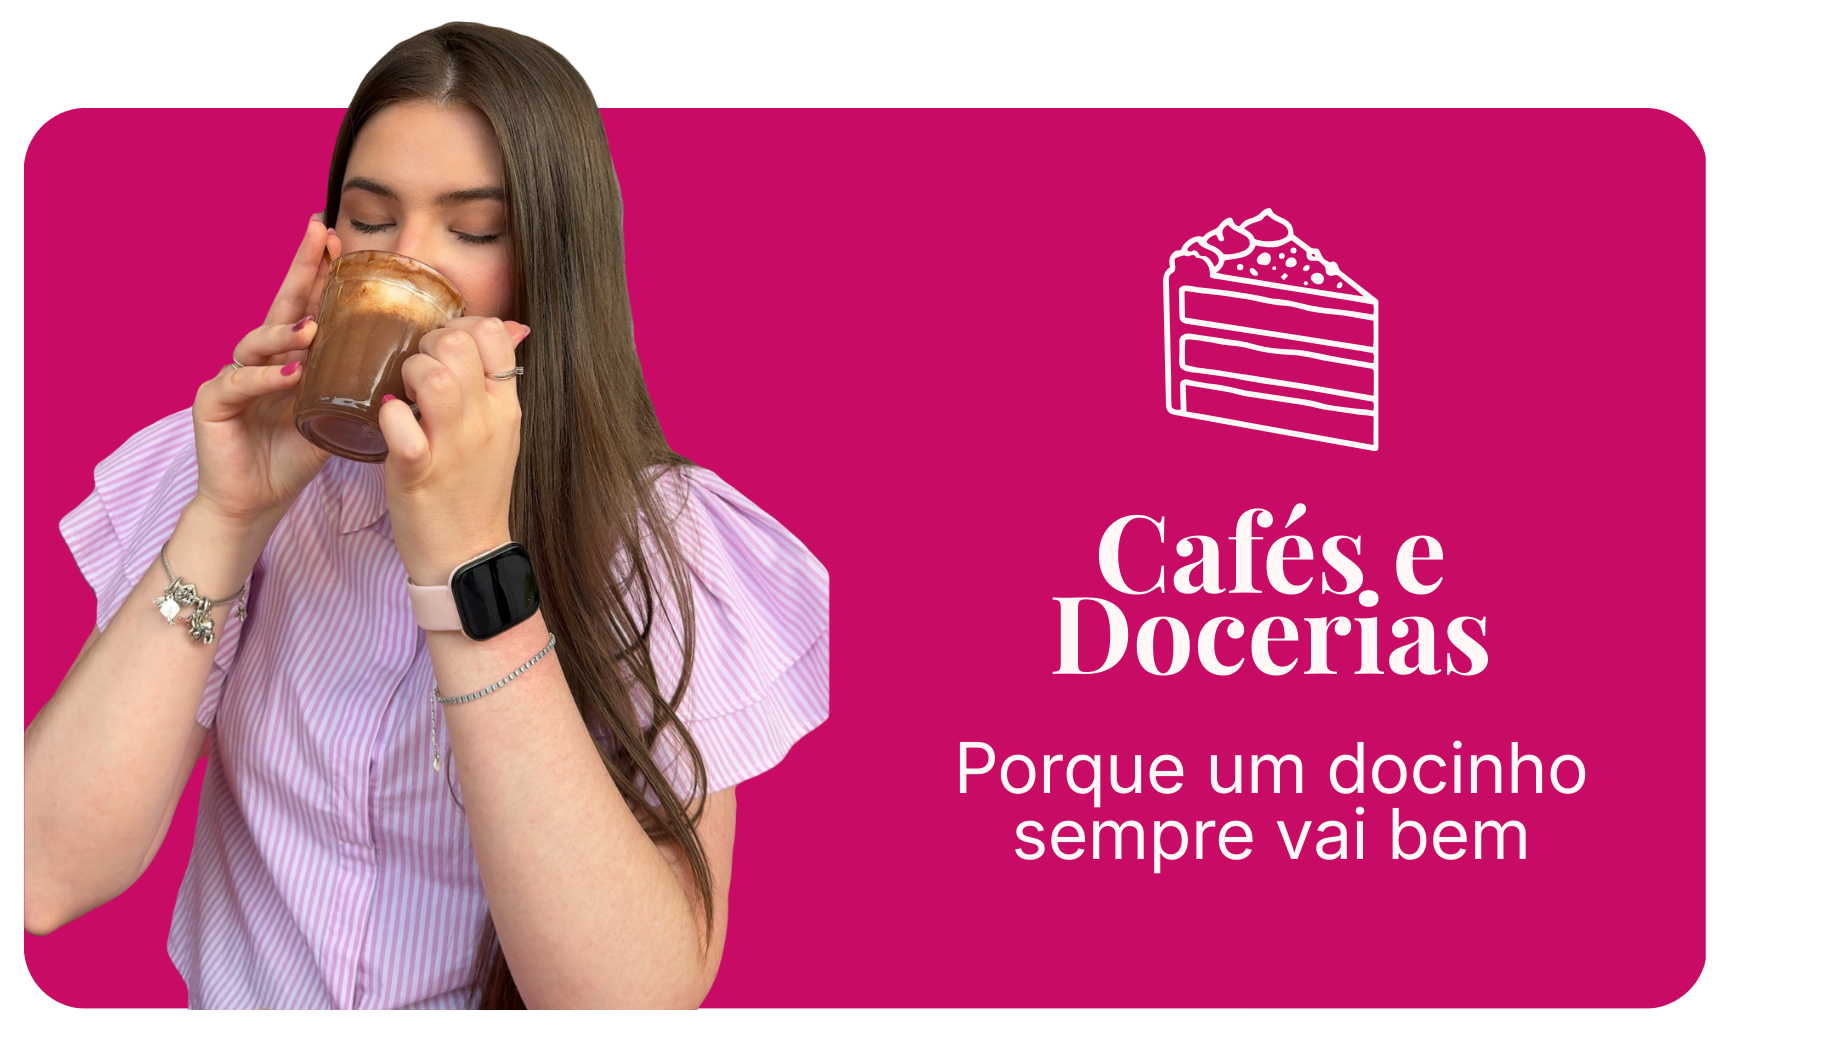
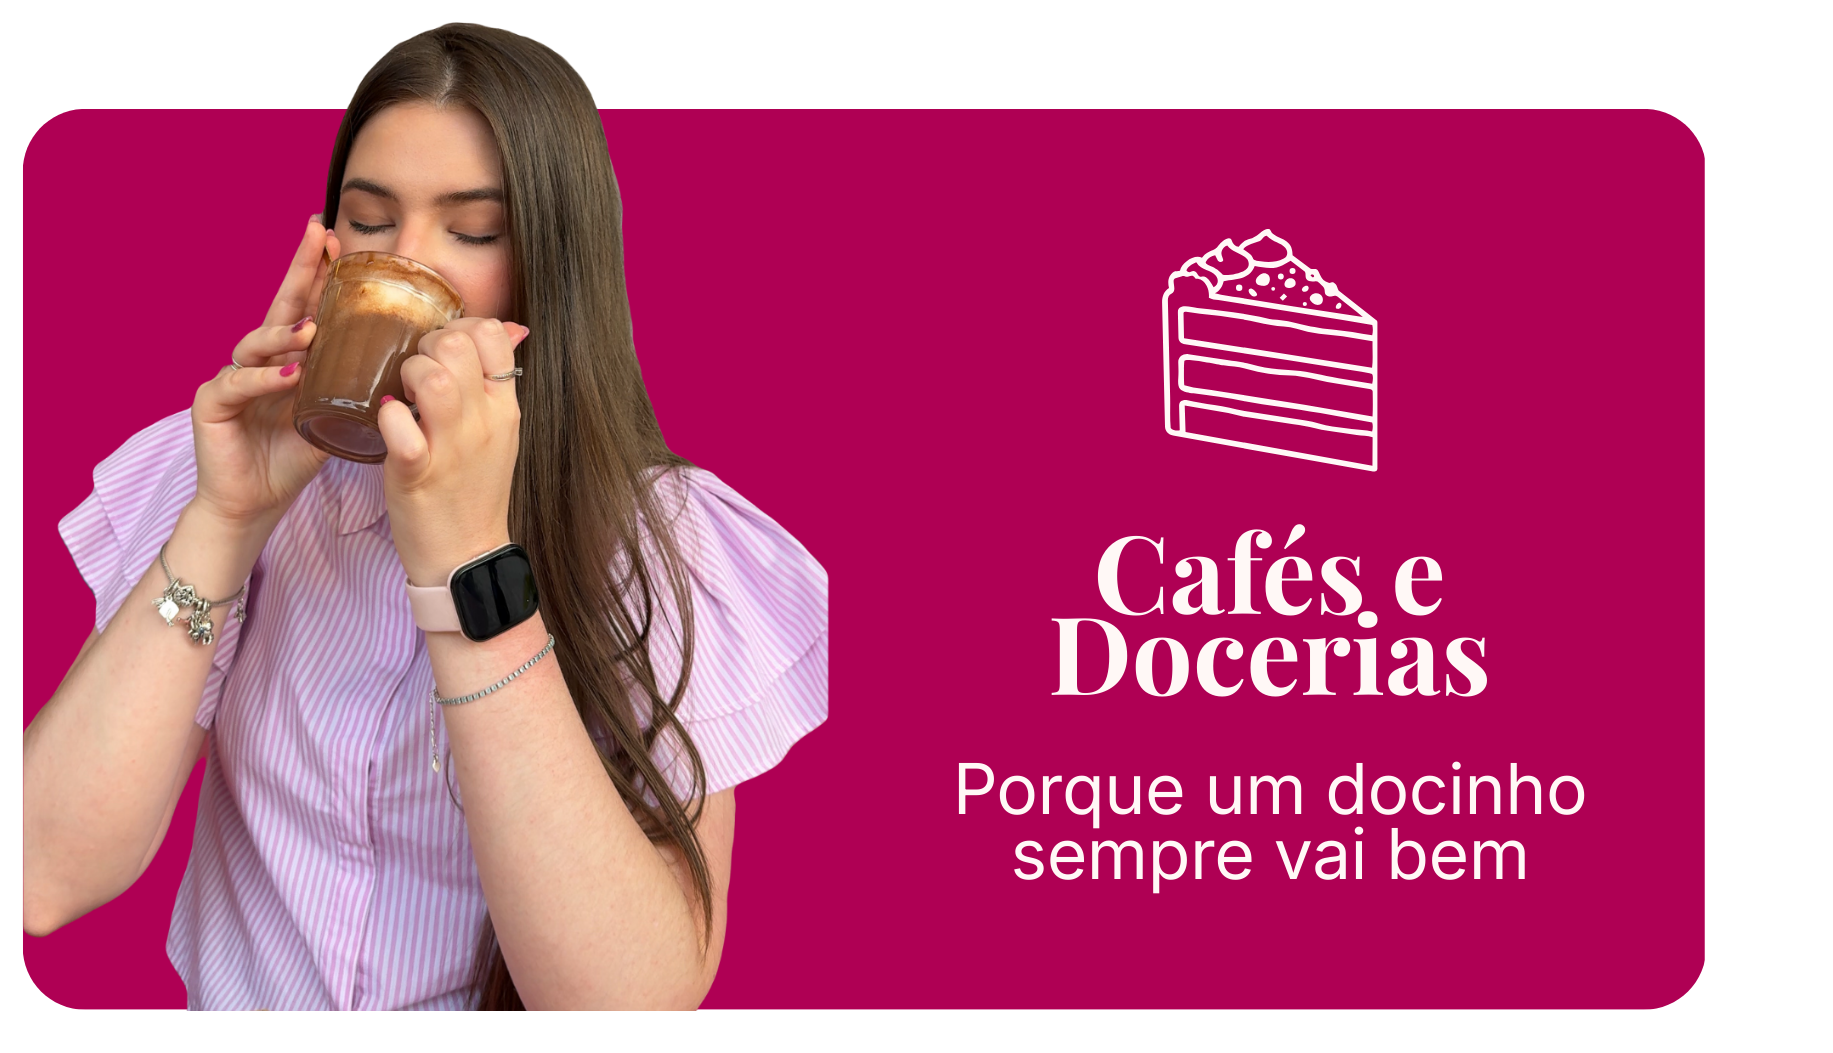
Teste imagem

diff --git a/tailwind.config.ts b/tailwind.config.ts
@@ -16,7 +16,7 @@ const config: Config = {
         'beje-tulipa': '#cec683',
         'beje-tulipa-claro': '#ddd69a',
         'beje-tulipa-escuro': '#e8e0a8',        // Para links no footer
-        'rosa-tulipa': '#c80c66',
+        'rosa-tulipa': '#af0054',
         'rosa-tulipa-claro': '#c21a6a',         // Ajustado para contraste 4.5:1
         'rosa-tulipa-escuro': '#a00a52',
         'off-white-rosado': '#fff8f6',
